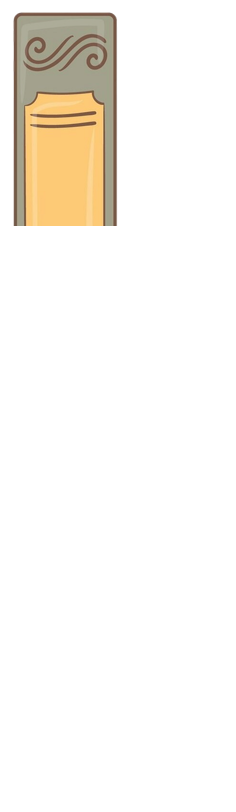
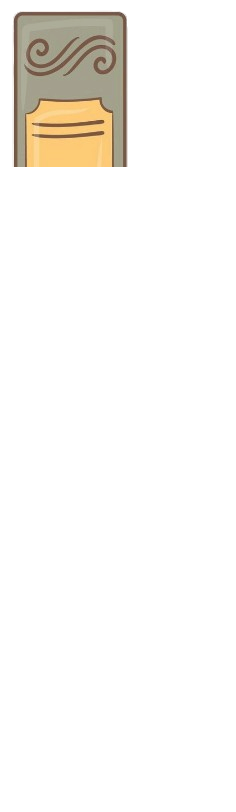
хочу добавить прыжок под углом к горизонту, отредактировать все книги, сделать их движение и динамику с персонажем

Changed region(s): [[0.0297, 0.0, 0.5636, 0.2771]]

diff --git a/src/mouse.java b/src/mouse.java
@@ -13,13 +13,29 @@ public class mouse extends JFrame {
     public int x = 35;
     public int y = 277;
     public boolean up = false;
+    /// books
+    public int bookX = 360;
+    public int bookY = 317;
 
     //bad
     // СОБИРАЕМЫЕ ЛИСТЫ
 
     public ArrayList<source> sour= new ArrayList<source>();
+    /// ///////////оределяем положение мыши относительно книги
+    public boolean overBookX() { //над книгой
+        return x+pers.getWidth() > bookX && x < bookX + book.getWidth();
+    }
+
+    public int ground () {
+        if (overBookX() && y+pers.getHeight() == bookY)//на поверхности
+        {
+            return bookY - pers.getHeight();
+        }
+        return 277;
+    }
 
 
+/// ////////////нажатия
     public KeyListener kl = new KeyListener() {
         @Override
         public void keyTyped(KeyEvent e) {
@@ -50,41 +66,12 @@ public class mouse extends JFrame {
 
 
 
-                if (!time.isRunning() && y == 277) {
+                if (!time.isRunning() && y == ground()) {
                     up=true;
                     time.start();
                     repaint();
                 }
 
-
-
-///наработки по норм прыжку
-//                double y = 0;             // h
-//                double vY = 0;     // y up
-//                double g = -9.8;    // g
-//                double jumpForce = 15.0;  //
-//                boolean Gr = true;  //земля
-//                public void jump() {
-//                    if (Gr) {
-//                        vY = jumpForce;
-//                        Gr = false;
-//                    }
-//                }
-/// время по кадрам
-//                public void update(double dT) {
-//                    if (Gr) {
-//                        vY += g * dT;
-//                        y += vY * dT;
-//
-//                        // Проверка (y = 0)
-//                        if (y <= 0) {
-//                            y = 0;
-//                            vY = 0;
-//                            Gr = true;
-//                        }
-//                    }
-//                }
-//
             }
 
 
@@ -95,24 +82,37 @@ public class mouse extends JFrame {
 
         }
     };
-
+    /// //////////прыжки
     ActionListener al = new ActionListener() {
         @Override
         //сама рисовалка прыжочки
         public void actionPerformed(ActionEvent e) {
+            int gr = ground();
             if (up) {
-                if (y > 177) {
+                if (y > 127) { //самая верхняя точка 177
                     y -= 5;
                 } else up = false;
             }
             else {
-                if (y < 277) {
+                if (y < gr) {
                     y += 5;
-                } else {
-                    time.stop();
-
+                    if (y > gr) y = gr;
+                    time.stop();//fall on floor
                 }
+
+
             }
+            boolean inbookX = x+pers.getWidth()>bookX && x<bookX+book.getWidth();
+            boolean inbookY = y+pers.getWidth()>bookY && y<bookY+book.getHeight();
+            if (inbookX && inbookY) {
+                /// ////////////
+            /// /////////////
+            ///  ////////
+            /// ///
+            ///  ////////
+
+            }
+
 
             for (int i=0; i<sour.size(); i++)
                 sour.get(i).move();
@@ -150,7 +150,7 @@ public class mouse extends JFrame {
 //        public void mouseExited(MouseEvent e) {     }
 //
 //    };
-    /// /
+    /// //////////////программа
     mouse() {
 
         try {
@@ -176,7 +176,8 @@ public class mouse extends JFrame {
 //                g.drawImage(but_start, 460, 260, this);
         g.drawImage(pers, x, 667, this);
         g.drawImage(pers, x, y, this); //y=277
-        g.drawImage(book, 360, y, this);
+
+        g.drawImage(book, bookX, bookY, this); ///277
 
 //                g.drawImage(but_back, 660, 600, this);
         for (int i=0; i<sour.size(); i++) {
